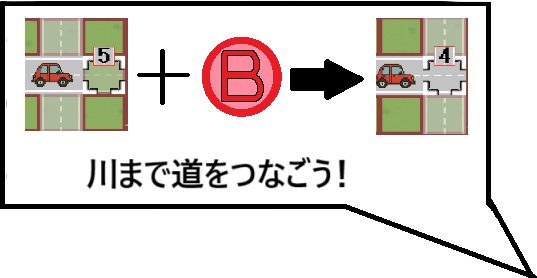
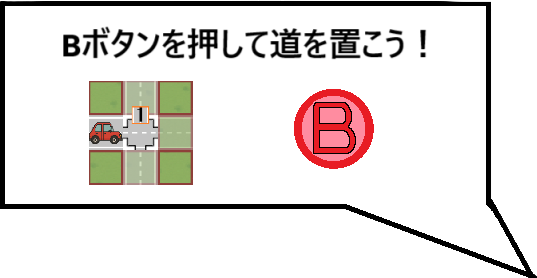
dadad

diff --git a/DxLib_TGS2025/Src/Scene/InGame/InGameScene.cpp b/DxLib_TGS2025/Src/Scene/InGame/InGameScene.cpp
@@ -148,7 +148,18 @@ void InGameResourceInit(void)
 		ingame.itemtutorial3 = LoadGraph("Resource/images/itemtutorial3.png");
 		ingame.itemtutorial4 = LoadGraph("Resource/images/itemtutorial4.png");
 		//チュートリアル中のAぼたんの点滅
-		ingame.blinkingA= LoadGraph("Resource/images/log5.png");
+		ingame.brakestoneanimetion1 = LoadGraph("Resource/images/log5-2.png");
+		ingame.brakestoneanimetion2 = LoadGraph("Resource/images/log5-3.png");
+		ingame.brakestoneanimetion3 = LoadGraph("Resource/images/log5-4.png");
+		ingame.brakestoneanimetion4 = LoadGraph("Resource/images/log5-5.png");
+		ingame.brakestoneanimetion5 = LoadGraph("Resource/images/log5-6.png");
+		ingame.brakestoneanimetion6 = LoadGraph("Resource/images/log5-7.png");
+		//チュートリアル中の道の生成アニメーション
+		ingame.makeroda1 = LoadGraph("Resource/images/log7-1.png");
+		ingame.makeroda2 = LoadGraph("Resource/images/log7-2.png");
+		//チュートリアル中の道の置き方アニメーション
+		ingame.putroda1 = LoadGraph("Resource/images/log8-1.png");
+		ingame.putroda2 = LoadGraph("Resource/images/log8-2.png");
 		//BGMの初期化
 		PlayBgm();
 		break;
@@ -369,6 +380,7 @@ void InGameSceneDraw(void)
 
 	/////////////////////
 	//DrawFormatString(150, 150, GetColor(255, 255, 255), "%d %d %d", animetion_num,ingame.tutorial_achievements,ingame.tutorial_achievements);
+	DrawFormatString(150, 150, GetColor(255, 255, 255), "%d %d %d",ingame.tutorial_log_num, ingame.tutorial_achievements, ingame.makerodacount);
 	////////////////////
 	
 }
@@ -716,7 +728,7 @@ void TutorialDraw(const Goal* goal, const GameOver* gameover)
 		{
 			ItemTutorial();
 		}
-		if (ingame.tutorial_log_num == 5)
+		if (ingame.tutorial_log_num == 5|| ingame.tutorial_log_num == 7|| ingame.tutorial_log_num == 8)
 		{
 				BlinkingAnimation();
 		}
@@ -787,7 +799,7 @@ void TutorialUpdate(void)
 void TutorialAchievements(const Cursor* cursor, const Rock* rock, const Wood* wood, const Tool* tool,
 	const CreateStage* stage)
 {
-	DrawFormatString(150, 150, GetColor(255, 255, 255), "%d %d %d", stage->array[7][4], ingame.tutorial_achievements);
+	DrawFormatString(150, 150, GetColor(255, 255, 255), "%d %d %d", stage->array[7][4], ingame.tutorial_achievements, ingame.makerodacount);
 	PadInputManager* pad_input = PadInputManager::GetInstance();
 	/*if (stage->array[8][4] == 4)
 	{
@@ -974,13 +986,72 @@ void ItemTutorial(void)
 void BlinkingAnimation(void)
 {
 	
-	ingame.blinkingcount++;
-	if (ingame.blinkingcount>25)
+	if (ingame.tutorial_log_num == 5)
 	{
-		DrawRotaGraphF(875.0f, 235.0f, 1.0, 0.0, ingame.blinkingA, TRUE);
-	}	
-	if (ingame.blinkingcount > 50)
+		ingame.brakestoneanimetioncount++;
+		if (ingame.brakestoneanimetioncount > 225)
+		{
+			ingame.brakestoneanimetioncount = 0;
+		}
+		else if (ingame.brakestoneanimetioncount > 195)
+		{
+			DrawRotaGraphF(875.0f, 235.0f, 1.0, 0.0, ingame.brakestoneanimetion7, TRUE);
+		}
+		else if (ingame.brakestoneanimetioncount > 165)
+		{
+			DrawRotaGraphF(875.0f, 235.0f, 1.0, 0.0, ingame.brakestoneanimetion6, TRUE);
+		}
+		else if (ingame.brakestoneanimetioncount > 135)
+		{
+			DrawRotaGraphF(875.0f, 235.0f, 1.0, 0.0, ingame.brakestoneanimetion5, TRUE);
+		}
+		else if (ingame.brakestoneanimetioncount > 105)
+		{
+			DrawRotaGraphF(875.0f, 235.0f, 1.0, 0.0, ingame.brakestoneanimetion4, TRUE);
+		}
+		else if (ingame.brakestoneanimetioncount > 85)
+		{
+			DrawRotaGraphF(875.0f, 235.0f, 1.0, 0.0, ingame.brakestoneanimetion3, TRUE);
+		}
+		else if (ingame.brakestoneanimetioncount > 55)
+		{
+			DrawRotaGraphF(875.0f, 235.0f, 1.0, 0.0, ingame.brakestoneanimetion2, TRUE);
+		}
+		else if (ingame.brakestoneanimetioncount > 25)
+		{
+			DrawRotaGraphF(875.0f, 235.0f, 1.0, 0.0, ingame.brakestoneanimetion1, TRUE);
+		}
+	}
+	else if (ingame.tutorial_log_num == 7)
 	{
-		ingame.blinkingcount=0;
+		ingame.makerodacount++;
+		if (ingame.makerodacount > 105)
+		{
+			ingame.makerodacount = 0;
+		}
+		else if (ingame.makerodacount > 70)
+		{
+			DrawRotaGraphF(875.0f, 235.0f, 1.0, 0.0, ingame.makeroda2, TRUE);
+		}
+		else if (ingame.makerodacount > 35)
+		{
+			DrawRotaGraphF(875.0f, 235.0f, 1.0, 0.0, ingame.makeroda1, TRUE);
+		}
+	}
+	else if (ingame.tutorial_log_num == 8)
+	{
+		ingame.putrodacount++;
+		if (ingame.putrodacount > 105)
+		{
+			ingame.putrodacount = 0;
+		}
+		else if (ingame.putrodacount > 70)
+		{
+			DrawRotaGraphF(875.0f, 235.0f, 1.0, 0.0, ingame.putroda2, TRUE);
+		}
+		else if (ingame.putrodacount > 35)
+		{
+			DrawRotaGraphF(875.0f, 235.0f, 1.0, 0.0, ingame.putroda1, TRUE);
+		}
 	}
 }

diff --git a/DxLib_TGS2025/Src/Scene/InGame/InGameScene.h b/DxLib_TGS2025/Src/Scene/InGame/InGameScene.h
@@ -63,8 +63,21 @@ struct InGame
 	int itemtutorial4;
 
 	int itemtutorial_num = 1;
-	int blinkingA;
-	int blinkingcount=0;
+	int brakestoneanimetion1;
+	int brakestoneanimetion2;
+	int brakestoneanimetion3;
+	int brakestoneanimetion4;
+	int brakestoneanimetion5;
+	int brakestoneanimetion6;
+	int brakestoneanimetion7;
+	int brakestoneanimetioncount=0;
+	int makeroda1;
+	int makeroda2;
+	int makerodacount=0;
+	int putroda1;
+	int putroda2;
+	int putrodacount=0;
+
 };
 
 struct InGame_Sound
